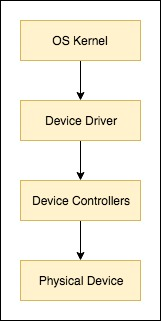
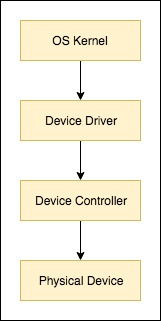
Modified exception documentation

Changed region(s): [[0.1863, 0.5919, 0.8075, 0.6542]]

diff --git a/arch_spec-files/instruction_set.html b/arch_spec-files/instruction_set.html
@@ -161,7 +161,8 @@ user programs execute in the unpreviliged mode,  the (incorrect) terminology has
 </li>
 -->
                                                 </ul>
-                                                <br><p><b>For all the above instructions, Ri/Rj may be any register except IP. </b></p>
+                                                <br><p>For all the above instructions, Ri/Rj may be any register <b>except IP</b>. </p>
+                                                <p><b>Note:</b>  Only registers R0-R19, SP and BP shall be used in code that executes in unpreviliged mode. An <a href="interrupts_exception_handling.html#exceptions" target="_blank">exception </a>(illegal instruction) will be generated otherwise.</p>
                                             </div>
                                         </div>
                                     </div>
@@ -189,7 +190,8 @@ user programs execute in the unpreviliged mode,  the (incorrect) terminology has
 <li>2. <b>INR, DCR</b><br><i>Syntax</i> : OP Ri<br><i>Semantics</i> : Increments/Decrements the value of register Ri by 1.
 </li>
 </ul>
-<br><p><b>For all the above instructions, Ri/Rj may be any register except IP. </b></p>
+<br><br><p>For all the above instructions, Ri/Rj may be any register <b>except IP</b>. </p>
+<p><b>Note:</b>  Only registers R0-R19, SP and BP shall be used in code that executes in unpreviliged mode. An <a href="interrupts_exception_handling.html#exceptions" target="_blank">exception </a>(illegal instruction) will be generated otherwise.</p>
 
 
                                             </div>
@@ -215,7 +217,8 @@ user programs execute in the unpreviliged mode,  the (incorrect) terminology has
 <i>Syntax</i> : OP Ri, Rj<br>
 <i>Semantics</i> : Stores 1 in Ri if the value stored in Ri is less than/greater than/equal to/not equal to/greater than or equal to/less than or equal to that in Rj. Ri is set to 0 otherwise.
 
-<br><p><b>Ri/Rj may be any register except IP. </b></p>
+<br><br><p>For all the above instructions, Ri/Rj may be any register <b>except IP</b>. </p>
+<p><b>Note:</b>  Only registers R0-R19, SP and BP shall be used in code that executes in unpreviliged mode. An <a href="interrupts_exception_handling.html#exceptions" target="_blank">exception </a>(illegal instruction) will be generated otherwise.</p>
                                             </div>
                                         </div>
                                     </div>
@@ -246,7 +249,8 @@ user programs execute in the unpreviliged mode,  the (incorrect) terminology has
 
 </li>
                                        </ul>
-          <br><p><b>For all the above instructions, Ri/Rj may be any register except IP. </b></p>
+          <br><<br><p>For all the above instructions, Ri/Rj may be any register <b>except IP</b>. </p>
+          <p><b>Note:</b>  Only registers R0-R19, SP and BP shall be used in code that executes in unpreviliged mode. An <a href="interrupts_exception_handling.html#exceptions" target="_blank">exception </a>(illegal instruction) will be generated otherwise.</p>
 
                                             </div>
                                         </div>
@@ -270,7 +274,8 @@ user programs execute in the unpreviliged mode,  the (incorrect) terminology has
 </li><br>
 <li>2. <b>POP</b><br><i>Syntax</i> : POP Ri<br><i>Semantics</i> : Copy contents of the location pointed to by SP into Ri and decrement SP by 1.
 </li></ul>
-                                                <br>        <p> <b>For both these instructions Ri may be any register except IP. </b></p>
+                                                <br>        <br><p>For all the above instructions, Ri/Rj may be any register <b>except IP</b>. </p>
+                                                <p><b>Note:</b>  Only registers R0-R19, SP and BP shall be used in code that executes in unpreviliged mode. An <a href="interrupts_exception_handling.html#exceptions" target="_blank">exception </a>(illegal instruction) will be generated otherwise.</p>
 
                                             </div>
                                         </div>
@@ -292,7 +297,8 @@ user programs execute in the unpreviliged mode,  the (incorrect) terminology has
                                                 <ul>  <li>1. <b>CALL</b><br>
 <i>Syntax</i> : CALL target_address / Ri<br>
 <i>Semantics</i> : Increments SP by 1, transfers IP + 2 to location pointed to by SP and jumps to instruction specified by target_address/Ri.
-
+<br><br><p>For the CALL instruction, Ri/Rj may be any register <b>except IP</b>. </p>
+                                                <p><b>Note:</b>  Only registers R0-R19, SP and BP shall be used in code that executes in unpreviliged mode. An <a href="interrupts_exception_handling.html#exceptions" target="_blank">exception </a>(illegal instruction) will be generated otherwise.</p>
 </li><br>
 <li>2. <b>RET</b><br><i>Syntax</i> : RET<br><i>Semantics</i> : Sets IP to the value pointed to by SP and decrements SP.
 </li></ul>
@@ -339,7 +345,7 @@ user programs execute in the unpreviliged mode,  the (incorrect) terminology has
 
                                                 <ul>  <li>
 <i>Syntax</i> : INT n<br>
-<i>Semantics</i> : Generates an interrupt to the kernel with n (4 to 18) as a parameter. This involves a <b>change of mode from user to kernel mode</b>. It also disables the interrupts. The Stack Pointer is first incremented, the physical address of SP is calculated and the (virtual) address of the next instruction after the current value of IP is stored into that location (See <a href="paging_hardware.html" target="_blank" >Address Translation</a>). After this, the execution mode is switched to Kernel mode. Note that, INT can be invoked only from the User Mode. The IP value must contain a virtual address and hence, the value pushed into stack is a virtual address and not a physical address. Finally, the IP value is set according to the value of n as specified <a href="machine_organisation.html" target="_blank">here</a>.
+<i>Semantics</i> : Generates an interrupt to the kernel with n (4 to 18) as a parameter. This involves a <b>change of mode from user to kernel mode</b>. It also disables the interrupts. The Stack Pointer is first incremented, the physical address of SP is calculated and the (virtual) address of the next instruction after the current value of IP is stored into that location (See <a href="paging_hardware.html" target="_blank" >Address Translation</a>). After this, the execution mode is switched to Kernel mode. <b>Note that, INT can be invoked only from the User Mode.</b> The IP value must contain a virtual address and hence, the value pushed into stack is a virtual address and not a physical address. Finally, the IP value is set according to the value of n as specified <a href="machine_organisation.html" target="_blank">here</a>.
 <br>
 
 </li>

diff --git a/arch_spec-files/interrupts_exception_handling.html b/arch_spec-files/interrupts_exception_handling.html
@@ -252,17 +252,97 @@ Note:  Internally XSM machine has an <i> interrupt vector table </i> that maps e
 </p>
 
 <br>
-<h4><b>Exceptions</b></h4>
-<p>Exceptions are anomalous situations which changes the normal flow of execution. The machine raises an exception when it runs in <b>user mode</b> and encounters an anomalous situation during program execution like division by zero or  generation of an invalid address.   All exceptions raise Interrupt 0. A detailed discussion on various conditions leading to the machine raising an exception are discussed below.</p>
+<h4 id="exceptions"><b>Exceptions</b></h4>
+<p>Exceptions are anomalous situations which changes the normal flow of execution. The machine raises an exception when it runs in <b>user mode</b> and encounters an anomalous situation during program execution like division by zero or  generation of an invalid address.   All exceptions raise Interrupt 0. A detailed discussion on various conditions leading to the machine raising an exception are  below.</p>
 
 
 <ul style="list-style-type: square;line-height: 25px;margin-left: 80px;font-size: 16px;">
-         <li><b>Illegal Memory Access </b>- occurs when any address generated by the process lies outside its logical address space values.   This also occurs when the process tries to write into pages whose Write access bit is not set in the page table. The logical page number generated for a valid instruction should be between 0 and the value of (512 * PTLR) - 1. </li>
+        <li><b>Illegal Memory Access </b>- occurs when one of the following conditions occur:- 
+          <ol type='a'>
+            <li>
+              A MOV instruction has an address not in the range 0 to PTLR*512-1. (Even indirect addressing as in MOV R0, [R1] can cause such addresses)
+            </li>
+            <li>
+              RET/POP executed with SP not between 0 and PTLR*512-1.
+            </li>
+            <li>
+              CALL/INT/PUSH/hardware interrupt executed with SP not between -1 and  PTLR*512-2.<b><sup>*</sup></b>
+            </li>
+            <li>
+              JZ/JNZ/JMP Instruction is executed with IP value not in the range 0 to PTLR*512-1.
+            </li>
+            <li>
+              Write is attempted to a page whose <a href="paging_hardware.html" target="_blank">write permission bit</a> in the page table entry has been set to 0.
+            </li>
+          </ol>
+          <br>
+          When one of the above events occur, the machine does the following:-
+          <br><ol>
+            <li>
+              EIP is set to the value of the IP register, from which instruction that caused the exception was fetched.
+            </li>
+            <li>
+              EPN contents are not valid for this exception.
+            </li>
+            <li>
+              EC is set to value 2 corresponding to illegal memory access. 
+            </li>
+            <li>
+              EMA is set to logical address that caused the illegal memory access.
+            </li>
+            <li>
+              Increments SP.
+            </li>
+            <li>
+              Push the current value of IP register to the physical memory address referenced by SP (obtained by performing address translation). 
+            </li>
+          </ol>
+          <b><sup>*</sup></b><i>Important Note: </i> In this case, the machine directly transfers control to the exception handler without pushing the contents of the IP register into the stack. Any pending interrupt will be execueted only after the machine returns to unprivilegeed mode from the exception handler. This is because the location into which the value of IP register has to be stored is not in the range of valid logical address space (0 - PTLR*512-1).
+        </li>
          <br>
-         <li><b>Illegal instructions </b> - occurs when an attempt is made to execute an instruction not belonging to the instruction set or when an operand/data in an instruction is not legal. </li>
-		 E.g. :-<br>
-		 MOV 4  R0,<br>
-		 MOV IP  4  , when executed in user mode.<br>
+         <li>
+           <b>Illegal instructions </b> - occurs when one of the following conditions occur:-
+           <ol type='a'>
+           <li>
+              Destination of a MOV  operation is a constant. 
+           </li>
+           <li>
+              A register/port not allowed in user mode is accessed.
+           </li>
+           <li>
+              A privileged mode instruction is executed. 
+           </li>
+           <li>
+              There is an instruction that does not belong to XSM instruction set or an instruction is given with more/less  operands than allowed - syntax error. 
+           </li>
+           <li>
+              INT n instruction - n is not in the valid range (4-18). 
+           </li>
+         </ol>
+         <br>
+          When one of the above events occur, the machine does the following:-
+          <br><ol>
+            <li>
+              EIP is set to the value of the IP register, from which instruction that caused the exception was fetched.
+            </li>
+            <li>
+              EPN contents are not valid for this exception.
+            </li>
+            <li>
+              EC is set to value 1 corresponding to illegal memory access. 
+            </li>
+            <li>
+              EMA contents are not valid for this exception.
+            </li>
+            <li>
+              Increments SP.
+            </li>
+            <li>
+              Push the current value of IP register to the physical memory address referenced by SP (obtained by performing address translation). 
+            </li>
+          </ol>
+         </li>
+		 
 		 <br>
 		 <li><b>Page Fault </b>- Occurs when the page accessed by the process is not available in the memory. (See <a href="paging_hardware.html" target="_blank" >Paging Hardware</a>)</li>
 		 <br>

diff --git a/Tutorials/xsm_interrupts_tutorial.html b/Tutorials/xsm_interrupts_tutorial.html
@@ -163,13 +163,12 @@ Such devices are generally attached to <a href="https://simple.wikipedia.org/wik
 These devices are typically either I/O mapped (via ports) or
 <a href="https://en.wikipedia.org/wiki/Memory-mapped_I/O" target="_blank"> memory mapped </a>
 and the exact configuration is determined by the hardware
-manufacturer. The hardware manufacturer supplies a <a href="https://en.wikipedia.org/wiki/Device_driver" target="_blank">device driver software </a> for each of these device controllers and the device driver software is typically loaded into memory
-along with the OS kernel during machine bootstrap. (Often the device drivers run as part of the kernel)
-Each device driver contains a set of functions
-that can be invoked from the OS kernel.   These
+manufacturer. The hardware manufacturer supplies a <a href="https://en.wikipedia.org/wiki/Device_driver" target="_blank">device driver software </a> for each of these device controller. The device driver software is typically loaded into memory
+along with the OS kernel during machine bootstrap. Thus, the device drivers run as part of the kernel.
+Each device driver contains a set of functions that can be invoked from the OS kernel.  These
 device driver functions in turn contain code that issues commands to the
-respective device controllers. Finally, the device controllers contain the
-software and hardware to make  the device physically behave in the required way
+respective device controller. Finally, the device controller contains the
+software and hardware necessary to make the device physically behave in the required way
 based on the commands received.
 </p>
 <img src="../img/os-design/xsm_machine_model.jpg" style="float:center; margin-right: 100px; margin-left:75px;">
@@ -217,7 +216,7 @@ The XSM privileged instructions load(page_num,block_num) and store(block_num, pa
 </p>
 
 <p>
-<b>After the execution of each instruction in unprivileged mode, the machine checks whether a pending
+After the execution of each instruction in unprivileged mode, the machine checks whether a pending
 disk/console/timer interrupt.  If so, the machine does the following actions:
 <ol style="list-style-type: decimal; margin-left: 50px; font-size: 16px">
 <li>Push the IP value into the top of the stack.</li>

diff --git a/Roadmap.html b/Roadmap.html
@@ -4222,7 +4222,7 @@ become <a href="https://en.wikipedia.org/wiki/Orphan_process" target="_blank">or
 <li style="padding-left: 20px">Change back to the user stack and return to the user mode.</li>
 </ul>
 <p>
-The system call numbers for <i>Wait</i>, <i>Signal</i>, <i>Getpid</i> and <i>Getppid</i> are 11, 12, 13 and 14 respectively. From ExpL program, these system calls are invoked using <a href="os_spec-files/dynamicmemoryroutines.html" target="_blank">exposcall function</a>.
+The system call numbers for <i>Getpid</i>, <i>Getppid</i>, <i>Wait</i> and <i>Signal</i> are 11, 12, 13 and 14 respectively. From ExpL program, these system calls are invoked using <a href="os_spec-files/dynamicmemoryroutines.html" target="_blank">exposcall function</a>.
 </p><br>
 
 <b>Wait System Call</b> <br><br>
